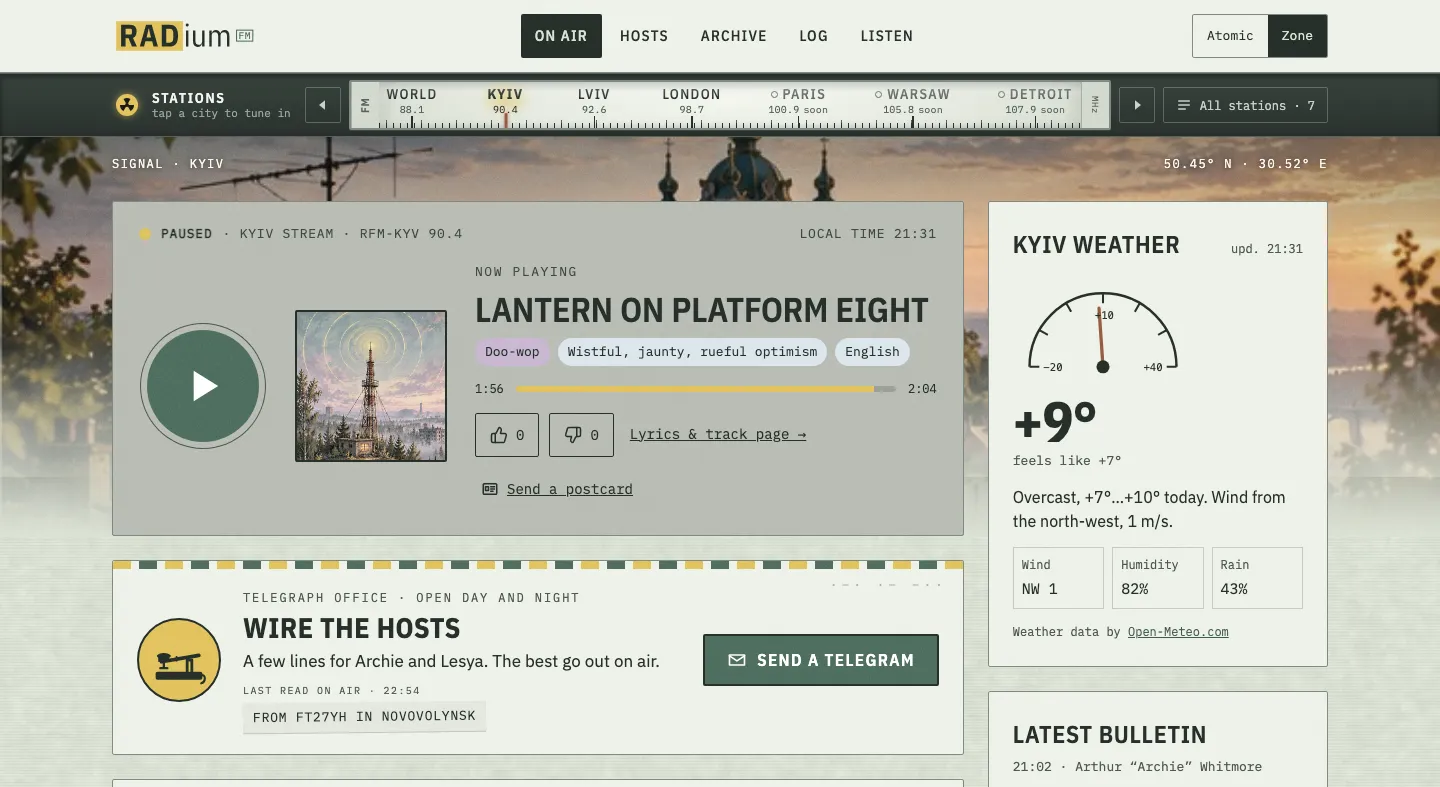
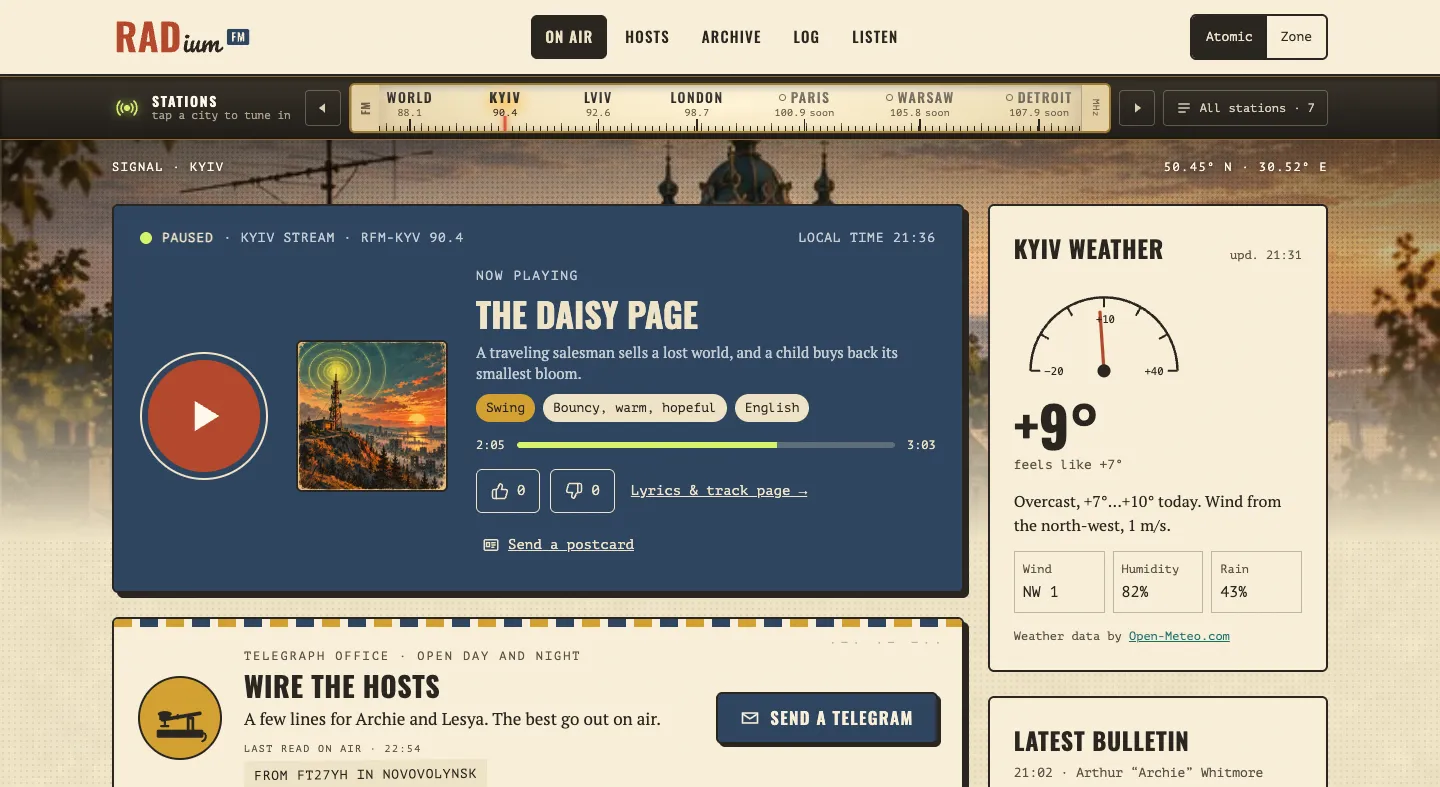
drop dividers above footer, show radiumfm in atomic theme

diff --git a/styles.css b/styles.css
@@ -207,6 +207,10 @@ img {
   border-bottom: 1px solid var(--line-soft);
 }
 
+.project:last-child {
+  border-bottom: none;
+}
+
 .project-body {
   display: flex;
   flex-direction: column;
@@ -301,7 +305,6 @@ img {
 /* footer */
 footer {
   margin-top: clamp(48px, 7vw, 96px);
-  border-top: 1px solid var(--line);
   padding: 34px 0 48px;
   display: flex;
   flex-wrap: wrap;
